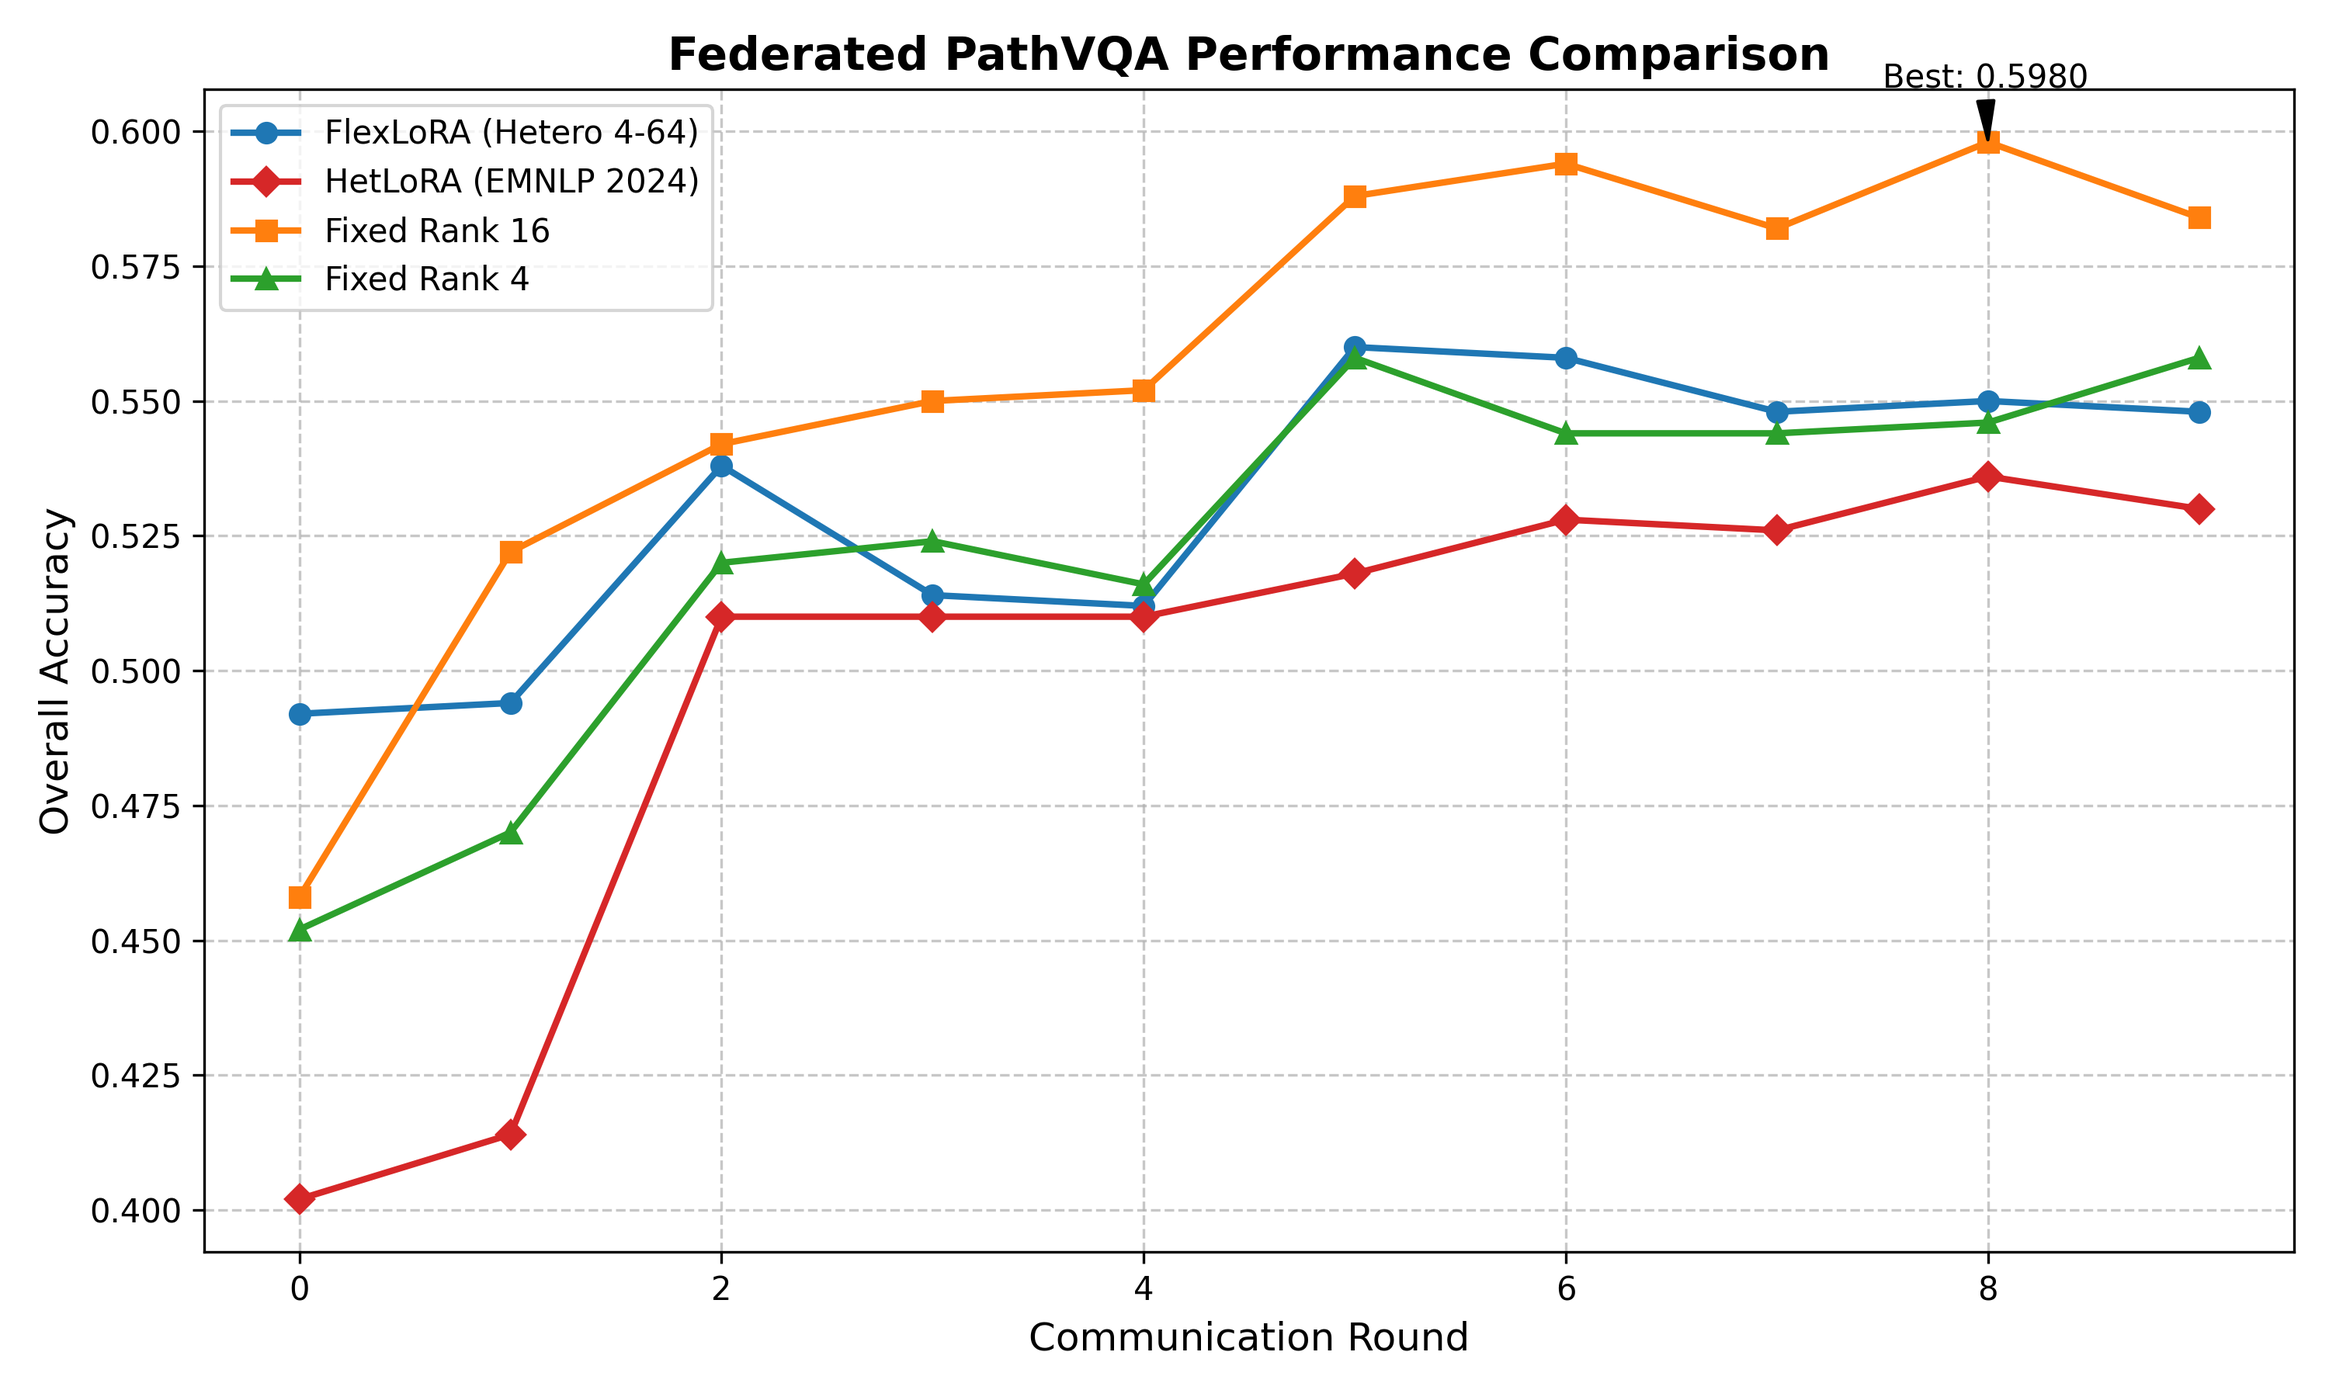
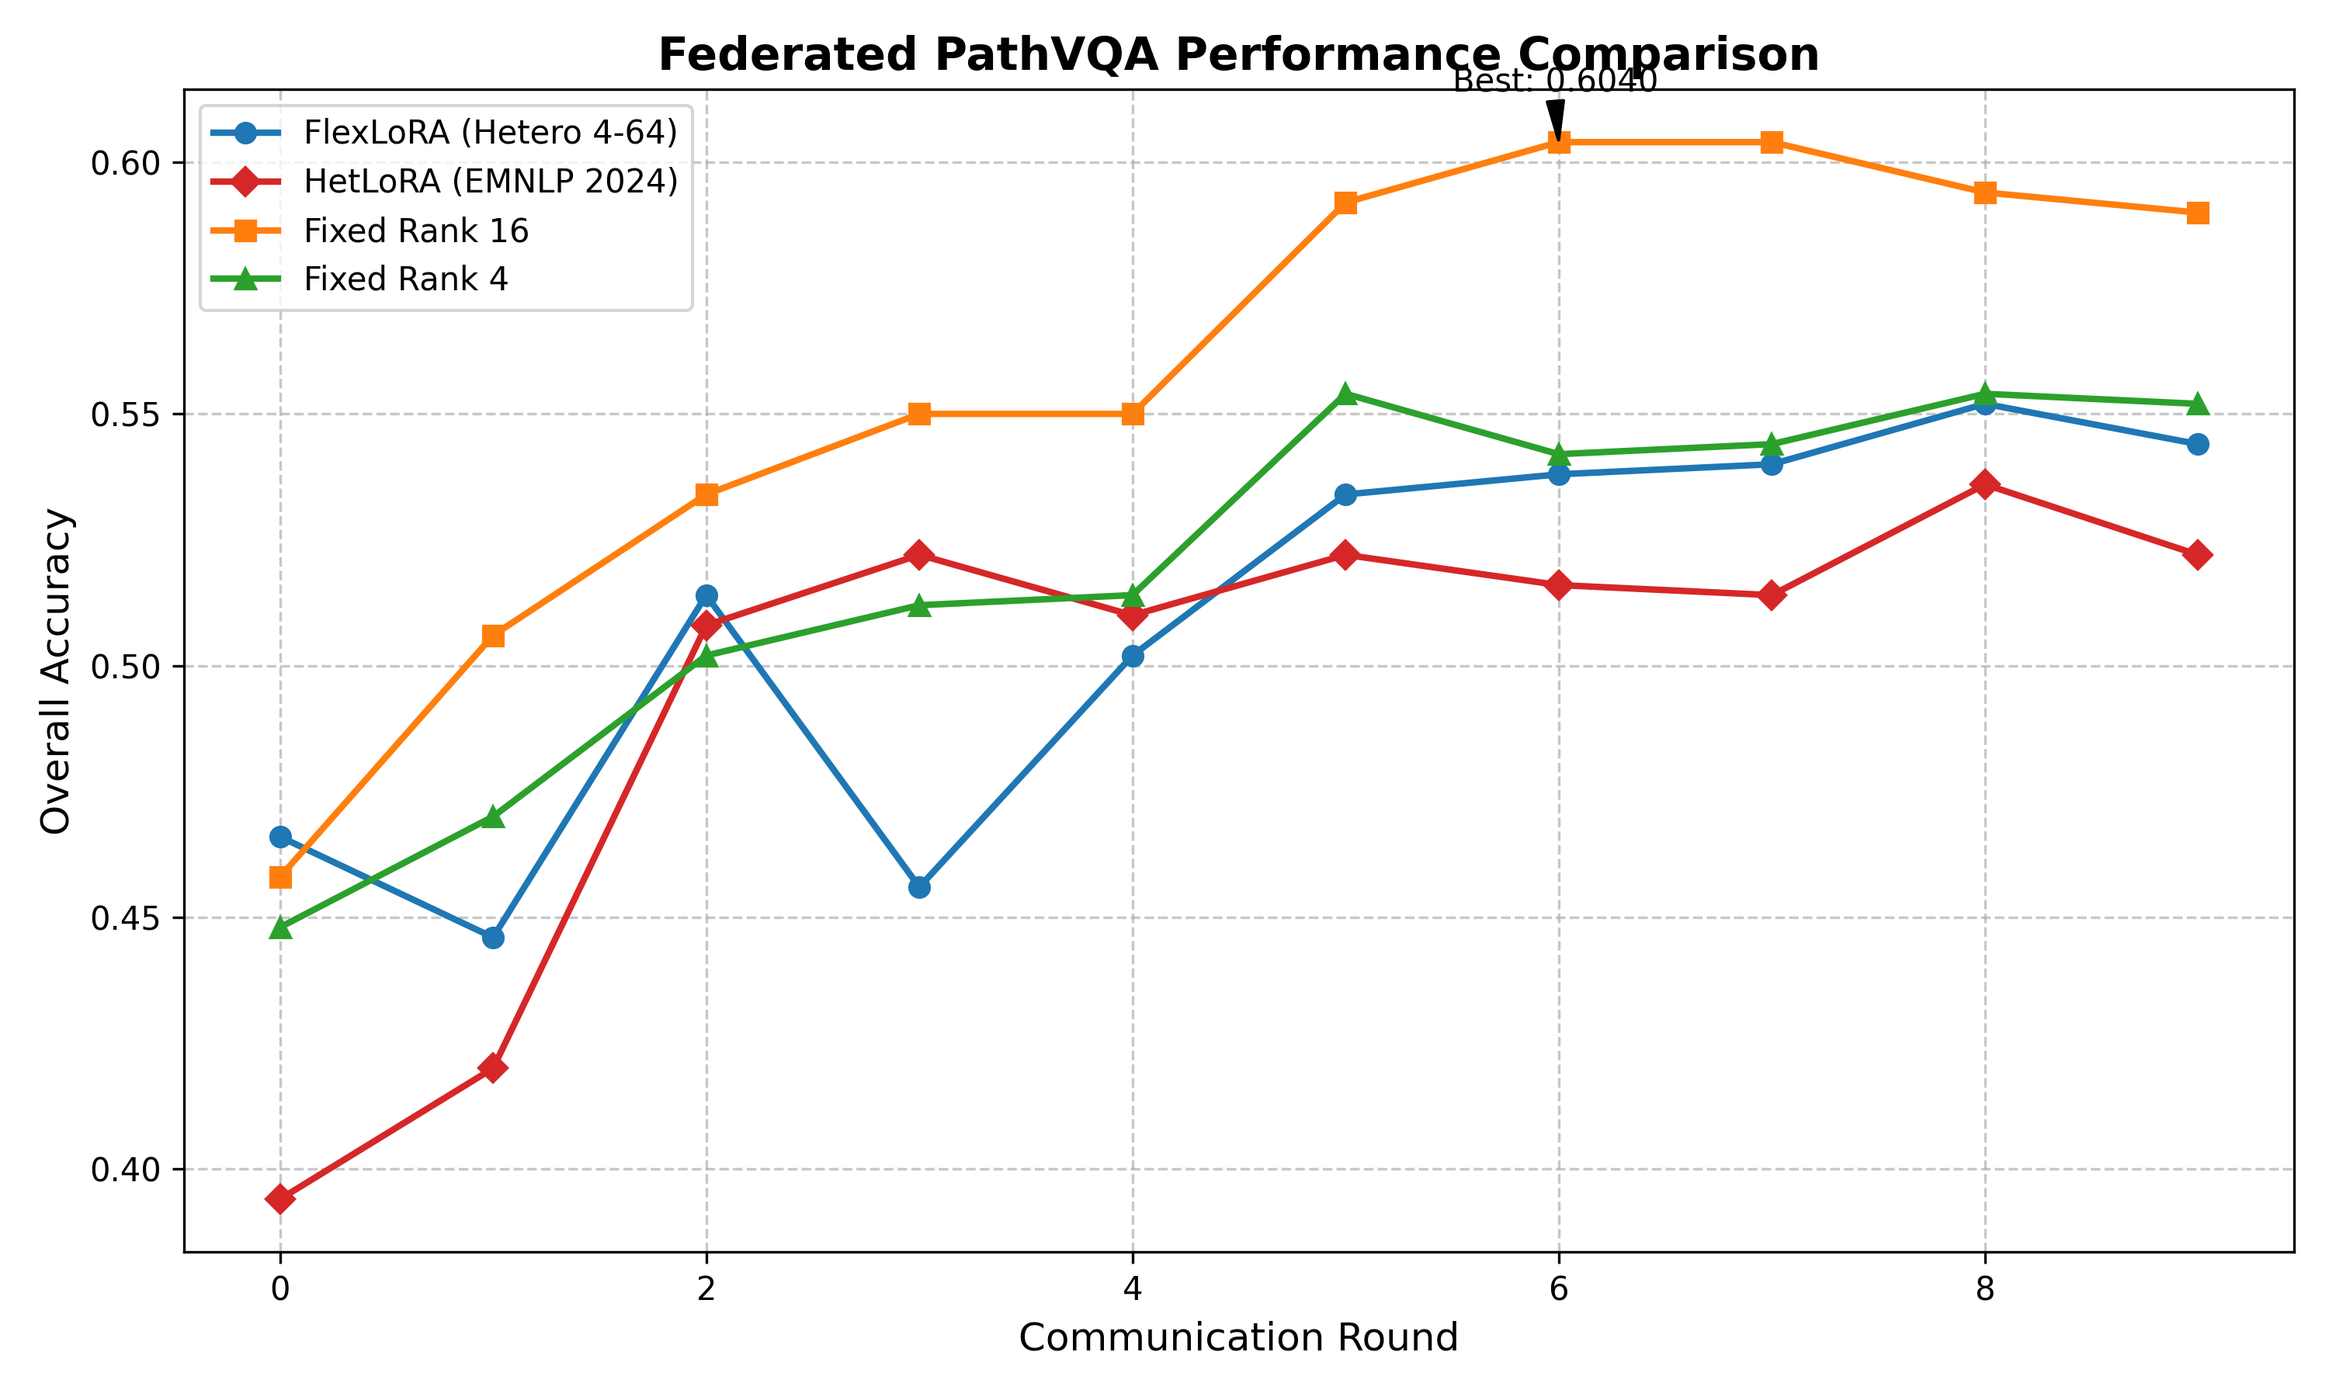
feat: complete 10-round federated learning comparison (Rank 4, 16, FlexLoRA, HetLoRA) and update report

diff --git a/train_client.py b/train_client.py
@@ -33,6 +33,7 @@ import argparse, json, os, shutil, warnings
 from pathlib import Path
 
 import torch
+from aggregate import _svd_to_rank
 from datasets import load_dataset
 from PIL import Image, ImageFile
 from unsloth import FastVisionModel
@@ -152,8 +153,7 @@ class FLSFTTrainer(SFTTrainer):
         if not self.hetlora or self.het_lambda <= 0:
             return super().compute_loss(model, inputs, return_outputs=return_outputs, num_items_in_batch=num_items_in_batch)
 
-        # Handle return_outputs=True case for super().compute_loss
-        res = super().compute_loss(model, inputs, return_outputs=True, num_items_in_batch=num_items_in_batch)
+        res = super().compute_loss(model, inputs, return_outputs=return_outputs, num_items_in_batch=num_items_in_batch)
         loss, outputs = res if isinstance(res, tuple) else (res, None)
 
         reg_loss = 0
@@ -176,8 +176,8 @@ class FLSFTTrainer(SFTTrainer):
                 # Pruning regularization on ranks r_prune_start:r
                 A_part = A[r_prune_start:, :]
                 B_part = B[:, r_prune_start:]
-                # Penalty: lambda * ||B_part||_F * ||A_part||_F
-                reg_loss += torch.norm(A_part, p='fro') * torch.norm(B_part, p='fro')
+                # Penalty: lambda * ||B_part @ A_part||_F  (norm of the actual output contribution)
+                reg_loss += torch.norm(B_part @ A_part, p='fro')
 
         total_loss = loss + self.het_lambda * reg_loss
 
@@ -190,10 +190,23 @@ class FLSFTTrainer(SFTTrainer):
         super().create_scheduler(num_training_steps=total, optimizer=optimizer)
 
     def _load_from_checkpoint(self, resume_from_checkpoint, model=None):
-        # Intentionally skip model-weight loading.
-        # The caller loaded the correct aggregated adapter before train().
-        print(f"  [FLSFTTrainer] Skipping model-weight load from checkpoint "
-              f"(adapter already loaded). Optimizer/scheduler will still resume.")
+        """
+        Skip model-weight loading (correct adapter already loaded by FL loop).
+        Restores RNG state for reproducibility. Optimizer and scheduler are
+        loaded separately by Trainer._inner_training_loop via
+        _load_optimizer_and_scheduler — this override does NOT affect them.
+        """
+        print(f"  [FLSFTTrainer] Skipping model weights from checkpoint "
+              f"(adapter already loaded). Restoring RNG state only.")
+        rng_file = os.path.join(resume_from_checkpoint, "rng_state.pth")
+        if os.path.isfile(rng_file):
+            try:
+                rng = torch.load(rng_file, map_location="cpu", weights_only=False)
+                torch.set_rng_state(rng["cpu"])
+                if "cuda" in rng and torch.cuda.is_available():
+                    torch.cuda.set_rng_state_all(rng["cuda"])
+            except Exception as e:
+                print(f"  [FLSFTTrainer] Warning: RNG state restore failed: {e}")
 
 
 # ── FlexLoRA helpers ───────────────────────────────────────────────────────────
@@ -267,24 +280,10 @@ def project_and_load_adapter(global_adapter_dir: str, model, local_rank: int):
         B_g = global_sd[b_key].float().to(device)   # [out, global_rank]
         delta_W = B_g @ A_g                          # [out, in]
 
-        U, S, Vh = torch.linalg.svd(delta_W, full_matrices=False)
-        r_actual = min(local_rank, S.shape[0])
-        sqrt_S = S[:r_actual].clamp(min=0.0).sqrt()
-
         orig_dtype = global_sd[a_key].dtype
-        A_r = (Vh[:r_actual, :] * sqrt_S.unsqueeze(1)).contiguous().cpu()
-        B_r = (U[:, :r_actual]  * sqrt_S.unsqueeze(0)).contiguous().cpu()
-
-        if r_actual < local_rank:
-            A_full = torch.zeros(local_rank, delta_W.shape[1], dtype=A_r.dtype)
-            B_full = torch.zeros(delta_W.shape[0], local_rank, dtype=B_r.dtype)
-            A_full[:r_actual, :] = A_r
-            B_full[:, :r_actual] = B_r
-            projected[a_key] = A_full.to(orig_dtype)
-            projected[b_key] = B_full.to(orig_dtype)
-        else:
-            projected[a_key] = A_r.to(orig_dtype)
-            projected[b_key] = B_r.to(orig_dtype)
+        A_l, B_l = _svd_to_rank(delta_W, local_rank, orig_dtype)
+        projected[a_key] = A_l.contiguous()
+        projected[b_key] = B_l.contiguous()
 
     incompatible = set_peft_model_state_dict(model, projected)
     _warn_incompatible(incompatible)
@@ -318,8 +317,16 @@ def truncate_and_load_adapter(global_adapter_dir: str, model, local_rank: int):
     truncated = {}
     for k, v in global_sd.items():
         if ".lora_A.weight" in k:
+            if v.shape[0] < local_rank:
+                raise ValueError(
+                    f"Cannot truncate {k}: stored rank {v.shape[0]} < local_rank {local_rank}"
+                )
             truncated[k] = v[:local_rank, :]   # [r_max, in] → [r_k, in]
         elif ".lora_B.weight" in k:
+            if v.shape[1] < local_rank:
+                raise ValueError(
+                    f"Cannot truncate {k}: stored rank {v.shape[1]} < local_rank {local_rank}"
+                )
             truncated[k] = v[:, :local_rank]   # [out, r_max] → [out, r_k]
         else:
             truncated[k] = v
@@ -333,8 +340,11 @@ def _warn_incompatible(result):
     if result is None:
         return
     unexpected = getattr(result, "unexpected_keys", [])
+    missing   = getattr(result, "missing_keys",    [])
     if unexpected:
         print(f"  Warning: unexpected adapter keys: {unexpected[:3]}{'…' if len(unexpected) > 3 else ''}")
+    if missing:
+        print(f"  Warning: missing adapter keys: {missing[:3]}{'…' if len(missing) > 3 else ''}")
 
 
 # ── main ───────────────────────────────────────────────────────────────────────

diff --git a/aggregate.py b/aggregate.py
@@ -155,7 +155,10 @@ def aggregate_flexlora(client_dirs, output_dir, global_rank, client_weights=None
     total_w = sum(client_weights)
 
     # ── aggregate lora_A / lora_B pairs via SVD ──
-    pairs = _lora_base_keys(state_dicts[0])
+    # Build union of all client LoRA keys (robust to heterogeneous target modules)
+    pairs = {}
+    for sd in state_dicts:
+        pairs.update(_lora_base_keys(sd))
     global_sd = {}
 
     for bk, keys in sorted(pairs.items()):
@@ -163,8 +166,10 @@ def aggregate_flexlora(client_dirs, output_dir, global_rank, client_weights=None
             continue
         a_key, b_key = keys["A"], keys["B"]
 
-        # Compute weighted average of ΔW = B @ A across clients
+        # Compute weighted average of ΔW = B @ A across clients.
+        # Track effective_w separately so missing clients don't dilute the average.
         delta_W_sum = None
+        effective_w = 0.0
         for w, sd in zip(client_weights, state_dicts):
             if a_key not in sd or b_key not in sd:
                 continue
@@ -172,22 +177,24 @@ def aggregate_flexlora(client_dirs, output_dir, global_rank, client_weights=None
             B = sd[b_key].float()   # [out, r_k]
             dW = B @ A              # [out, in]
             delta_W_sum = (w * dW) if delta_W_sum is None else delta_W_sum + w * dW
+            effective_w += w
 
         if delta_W_sum is None:
             continue
 
-        avg_dW = delta_W_sum / total_w
+        avg_dW = delta_W_sum / effective_w
 
-        orig_dtype = state_dicts[0][a_key].dtype
+        orig_dtype = next(sd[a_key].dtype for sd in state_dicts if a_key in sd)
         A_g, B_g = _svd_to_rank(avg_dW, global_rank, orig_dtype)
         global_sd[a_key] = A_g
         global_sd[b_key] = B_g
 
     # ── average non-lora_A/lora_B keys normally ──
     lora_keys = {k for p in pairs.values() for k in p.values()}
-    other_keys = [k for k in state_dicts[0] if k not in lora_keys]
-    # Only average keys that exist and have matching shapes in all clients
-    for key in other_keys:
+    all_other_keys: set = set()
+    for sd in state_dicts:
+        all_other_keys.update(k for k in sd if k not in lora_keys)
+    for key in sorted(all_other_keys):
         tensors = [sd[key] for sd in state_dicts if key in sd]
         if len(tensors) == num_clients:
             try:
@@ -301,6 +308,15 @@ def aggregate_hetlora(client_dirs, output_dir, global_rank):
         A_avg = torch.zeros(r_max, in_dim, dtype=torch.float32)
         B_avg = torch.zeros(out_dim, r_max, dtype=torch.float32)
 
+        # Renormalize weights to account for any clients missing this layer
+        present_w = sum(
+            sparsity_weights[c_idx]
+            for c_idx, sd in enumerate(state_dicts)
+            if a_key in sd and b_key in sd
+        )
+        if present_w < 1e-9:
+            continue
+
         for c_idx, (sd, w) in enumerate(zip(state_dicts, sparsity_weights)):
             if a_key not in sd or b_key not in sd:
                 continue
@@ -309,9 +325,16 @@ def aggregate_hetlora(client_dirs, output_dir, global_rank):
             B_k = sd[b_key].float()   # [out, r_k]
             r_k = A_k.shape[0]
 
-            # Zero-padding is implicit: we only add to the first r_k rows/cols
-            A_avg[:r_k, :] += w * A_k
-            B_avg[:, :r_k] += w * B_k
+            if r_k > r_max:
+                raise ValueError(
+                    f"Client {c_idx} rank {r_k} > global_rank {r_max} for layer {bk}"
+                )
+
+            # Zero-padding is implicit: only add to the first r_k rows/cols.
+            # Divide by present_w so weights sum to 1 even when clients are missing.
+            w_norm = w / present_w
+            A_avg[:r_k, :] += w_norm * A_k
+            B_avg[:, :r_k] += w_norm * B_k
 
         global_sd[a_key] = A_avg.to(orig_dtype)
         global_sd[b_key] = B_avg.to(orig_dtype)

diff --git a/run_simulation.py b/run_simulation.py
@@ -333,7 +333,13 @@ def main():
                     client_ranks[i] = rank_info["rank"]
                     if client_ranks[i] != old_rank:
                         print(f"  [HetLoRA] Client {i} rank updated: {old_rank} → {client_ranks[i]} (pruned in round {rank_info['round']})")
-            print(f"  [HetLoRA] Current ranks: {client_ranks}")
+            # Keep global_rank in sync so the server model doesn't hold
+            # unnecessary capacity after all clients have pruned.
+            new_global_rank = max(client_ranks)
+            if new_global_rank != global_rank:
+                print(f"  [HetLoRA] global_rank updated: {global_rank} → {new_global_rank}")
+                global_rank = new_global_rank
+            print(f"  [HetLoRA] Current ranks: {client_ranks}, global_rank: {global_rank}")
 
         ok = run_round(
             round_idx    = r,

diff --git a/experiment_report.md b/experiment_report.md
@@ -36,28 +36,31 @@
 
 ## Federated Learning Results (10 Rounds)
 
-Comparison of different ranks and heterogeneous LoRA algorithms after 10 communication rounds.
+Comparison of different ranks and heterogeneous LoRA algorithms after 10 communication rounds (Round 9 results).
 
 | Metric | Fixed Rank 4 | Fixed Rank 16 | FlexLoRA (4-64) | HetLoRA (4-64) |
 | :--- | :---: | :---: | :---: | :---: |
-| **Yes/No accuracy** | 0.836 | 0.832 | **0.844** | 0.812 |
-| **Open exact match** | 0.280 | **0.336** | 0.252 | 0.248 |
-| **Open BLEU-1** | 0.3339 | **0.3940** | 0.3160 | 0.3044 |
-| **Overall accuracy** | 0.5580 | **0.5840** | 0.5480 | 0.5300 |
+| **Yes/No accuracy** | 0.836 | **0.856** | 0.828 | 0.792 |
+| **Open exact match** | 0.268 | **0.324** | 0.260 | 0.252 |
+| **Open BLEU-1** | 0.3184 | **0.3885** | 0.3063 | 0.3088 |
+| **Overall accuracy** | 0.5520 | **0.5900** | 0.5440 | 0.5220 |
 
 ---
 
 ## Key Findings
 
-1. **Monotonic performance scaling with rank**: Performance consistently improves as LoRA rank increases (4 → 16 → 64) across all categories. Specifically, rank=16 successfully bridge the gap, capturing about 44% of the accuracy gain between rank=4 and rank=64 while using only 25% of the parameters of rank=64.
+1. **Monotonic performance scaling with rank**: Performance consistently improves as LoRA rank increases (4 → 16 → 64) across all categories. In the local setting, rank=64 is superior, while in Federated Learning, **Fixed Rank 16** consistently outperforms other configurations, reaching a peak overall accuracy of **0.6040** (Round 6).
 
-2. **Train loss fitting**: rank=64 fits training data much better than rank=16/4. However, the diminishing returns in eval loss (0.92 for r16 vs 0.90 for r64) suggest that rank=16 provides a very strong balance between parameter counts and generalization.
+2. **Open-ended reasoning**: Higher rank continues to be critical for open-ended questions. Fixed Rank 16 maintains a significant lead in Open Exact Match (0.324) and BLEU-1 (0.3885) compared to Rank 4 and heterogeneous methods.
 
-3. **Open-ended questions**: The advantage of higher-rank LoRA is particularly pronounced in open-ended VQA, where rank=64 and rank=16 significantly outperform rank=4. In Federated Learning, **Fixed Rank 16** continues to lead in open-ended accuracy (0.336 EM), suggesting that higher rank is essential for complex reasoning tasks even in a collaborative setting.
+3. **Federated vs. Local**: Federated Learning significantly improves performance for lower-rank models. Fixed Rank 4 accuracy increased from **0.5095** (local) to **0.5520** (after 10 rounds of FL).
 
-4. **Federated vs. Local**: Federated Learning significantly improves performance for lower-rank models. Fixed Rank 4 accuracy increased from **0.5095** (local) to **0.5580** (after 10 rounds of FL).
+4. **Heterogeneous Algorithms**: 
+   - **FlexLoRA** achieved an overall accuracy of **0.5440**, which is competitive with the Fixed Rank 4 baseline but slightly lower than Fixed Rank 16.
+   - **HetLoRA** (with sparsity-weighted aggregation) reached **0.5220**. In this 4-client setup, the clients were assigned static ranks (4, 16, 32, 64) and pruning was not triggered as the weight norms remained stable.
+   - Both methods show promise but may require more clients or more heterogeneous resource constraints to demonstrate clear advantages over fixed-rank baselines in this specific dataset.
 
-5. **Heterogeneous Algorithms**: In this 4-client setup, **FlexLoRA** (0.5480) and **HetLoRA** (0.5300) achieved comparable performance but were slightly outperformed by the Fixed Rank 4/16 baselines. This may be due to the small number of clients affecting the benefits of rank adaptation.
+5. **Stability**: Fixed Rank 16 showed the most stable improvement, while FlexLoRA and HetLoRA exhibited more fluctuations across rounds, likely due to the dynamic nature of their parameter updates.
 
 ---
 
